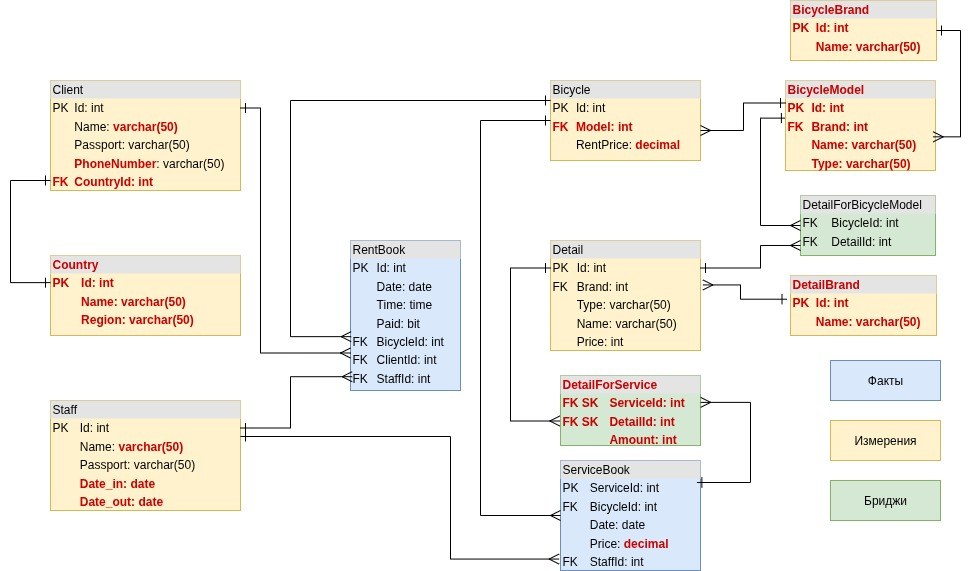
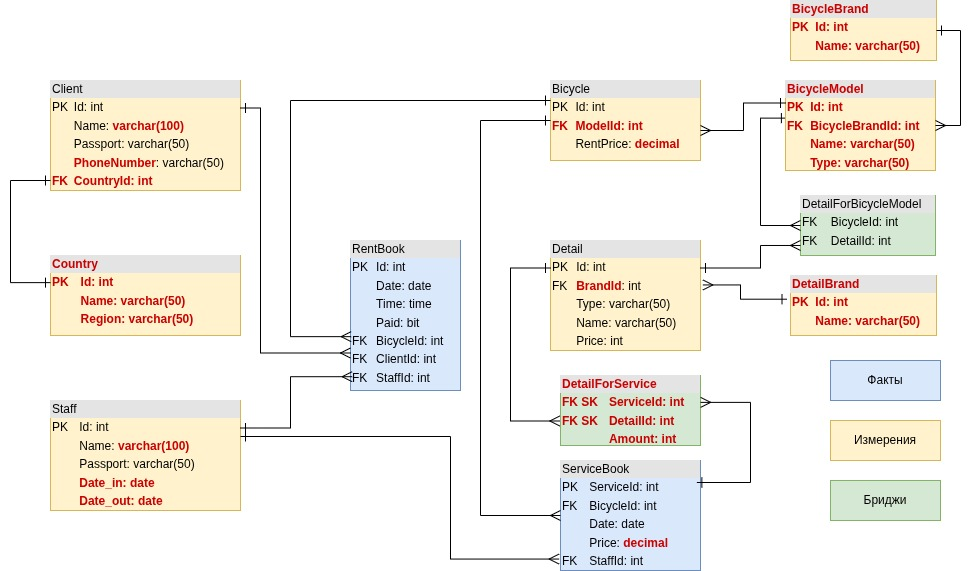
my_fixes and update readme

diff --git a/README.md b/README.md
@@ -25,11 +25,14 @@
 * Связь `Detail` с `Bicycle`: Если рент-сервис закупает 20 велосипедов одной модели, нужно вносить (20 * кол-во 
   подходящих деталей) записей в `DetailForBicycle`.
 
+#### Незначительные:
+* Атрибут `Phone number` таблицы `Clients` нарушает стилистику `PascalCase` в названиях.
+
 ![Диаграмма с правками](readme_static/bike_rent_upgraded.jpg)
 
 ### Внесенные изменения:
 
-* Все поля `Name` расширены до `varchar(50)`.
+* Все поля `Name` расширены до `varchar(100)` для сущностей, описывающих людей.
 * Поля `Price` теперь имеют тип данных `decimal(10, 2)`. Специализированный тип `money` в нашем случае избыточен, т.
   к. мы работаем и принимаем оплату в пределах одной территории (судя по модели), и он затрудняет возможные миграции.
 * В таблице `Staff` теперь есть дата приема и дата увольнения (`date_in`, `date_out`, где пустой `date_out` 
@@ -38,6 +41,7 @@
 * Связь `ServiceBook`  и `Detail` - теперь `M-to-M`, бридж содержит информацию о количестве одноименных деталей для 
   акта работы, поэтому стало необходимо внести `суррогатный ключ` из двух полей.
 * Связь `Detail` и `Bicycle` теперь осуществляется не напрямую, а через `BicycleModel`. 
+* Переименовал атрибут `Phone number` в `Clients`
 
 ### Другое:
 * Заметил разбиение даты на 2 поля, погуглил, оказывается это приемлемый паттерн в MS SQL. Непривычно.
